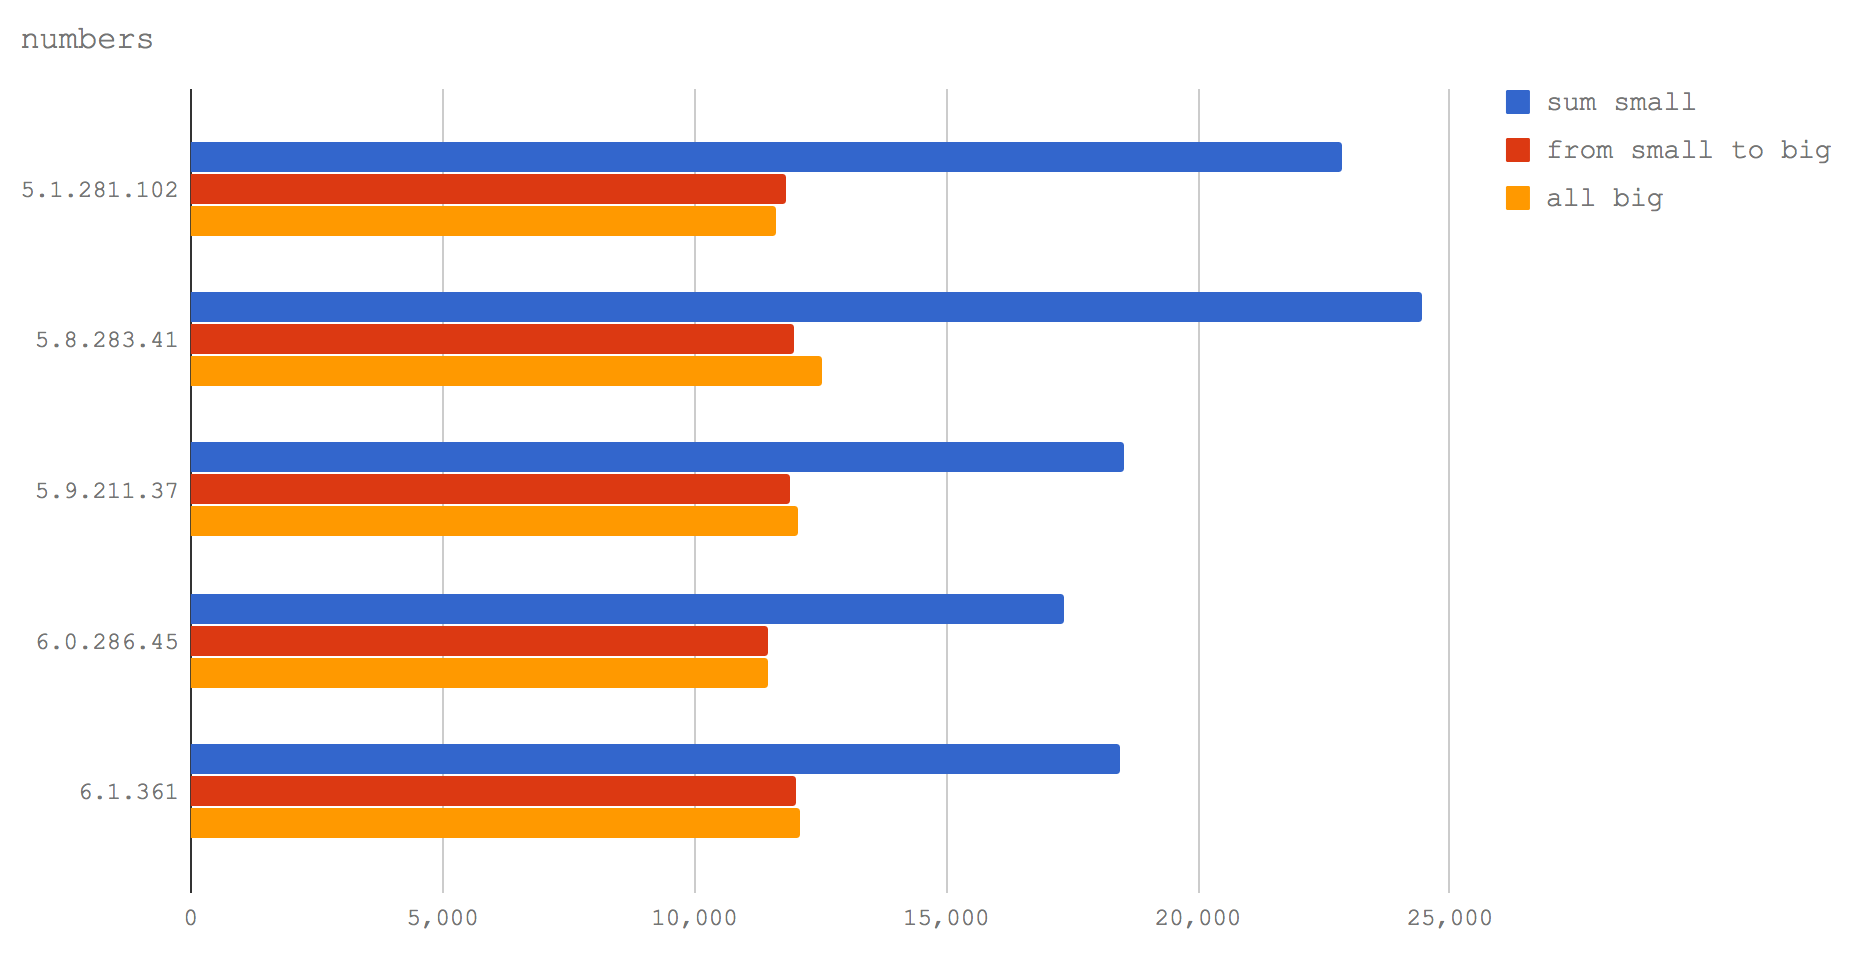
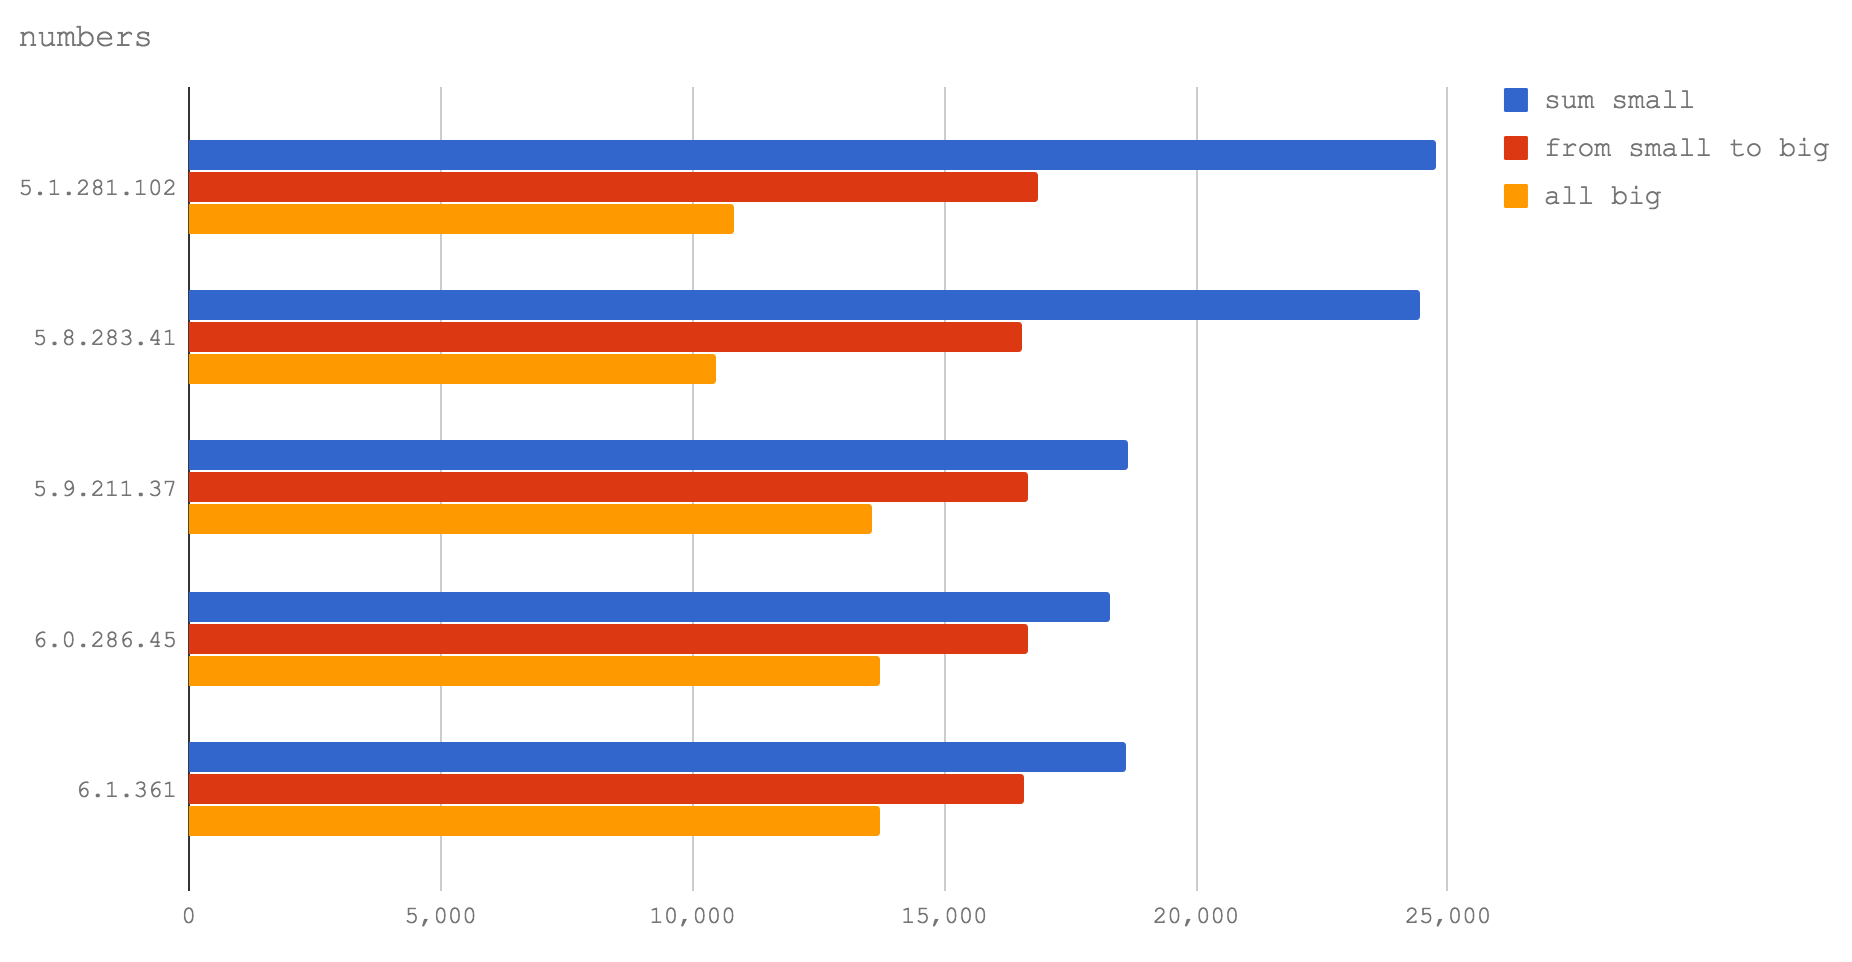
Massive edits after feedbacks

diff --git a/bench/property-removal.js b/bench/property-removal.js
@@ -3,7 +3,13 @@
 var benchmark = require('benchmark')
 var suite = new benchmark.Suite()
 
-function MyClass (x) {
+function MyClass (x, y) {
+  this.x = x
+  this.y = y
+}
+
+function MyClassLast (x, y) {
+  this.y = y
   this.x = x
 }
 
@@ -12,14 +18,21 @@ function MyClass (x) {
 // https://www.npmjs.com/package/to-fast-properties
 
 suite.add('setting to undefined', function undefProp () {
-  var obj = new MyClass(2)
+  var obj = new MyClass(2, 3)
   this.x = undefined
 
   JSON.stringify(obj)
 })
 
 suite.add('delete', function deleteProp () {
-  var obj = new MyClass(2)
+  var obj = new MyClass(2, 3)
+  delete obj.x
+
+  JSON.stringify(obj)
+})
+
+suite.add('delete last property', function deleteProp () {
+  var obj = new MyClassLast(2, 3)
   delete obj.x
 
   JSON.stringify(obj)

diff --git a/bench/object-creation.js b/bench/object-creation.js
@@ -30,7 +30,7 @@ suite.add('constructor', function allNums () {
 
 var literal = { x: 1 }
 suite.add('create', function allNums () {
-  var obj = Object.create(literal)
+  obj = Object.create(literal)
 })
 
 suite.on('cycle', () => runs = 0)

diff --git a/readme.md b/readme.md
@@ -16,7 +16,12 @@ This piece is about the evolution of V8 and JS engines performance.
 
 A central piece of the V8 engine that allows it to execute JavaScript at high speed is
 the JIT (Just In Time) compiler. This is a dynamic compiler that can optimize code during
-runtime. When V8 was first built the JIT Compiler was dubbed: Crankshaft.
+runtime. When V8 was first built the JIT Compiler was dubbed FullCodegen.
+Then, the V8 team implemented Crankshaft, which included many
+performance optimizations that FullCodegen did not implement.
+
+_Edit: FullCodegen was the first optimizing compiler of V8, thanks [Yang Guo](https://twitter.com/hashseed)
+for reporting._
 
 As an outside observer and user of JavaScript since the 90's, it has seemed that
 fast and slow paths in JavaScript (whatever the engine may be) were often counter-intuitive, the
@@ -51,7 +56,9 @@ the experimental node-v8 repo at https://github.com/nodejs/node-v8. In other wor
 eventually be in some future version of Node.
 
 Let's take a look at our microbenchmarks and on the other side we'll talk about what this
-means for the future.
+means for the future. All the microbenchmarks are executed using
+[benchmark.js](https://www.npmjs.com/package/benchmark), and the values
+plotted are operation per second, so higher is better in every diagram.
 
 ### The try/catch problem
 
@@ -107,14 +114,21 @@ In this microbenchmark we compare two cases:
 
 * serializing an object after an object's property has been set to `undefined`
 * serializing an object after `delete` has been used to remove an object's property
+* serializing an object after `delete` has been used to remove an object's property that
+  was the last property added.
 
 **Code:** <https://github.com/davidmarkclements/v8-perf/blob/master/bench/property-removal.js>
 
 ![](graphs/property-removal-bar.png)
 
-In V8 6.1 (not yet used in any Node releases), operations on an object with a deleted property gets *extremeley* fast,
-faster, even, than setting to `undefined`. This is excellent news because now we can do
-the right thing *and* it's the fastest option.
+In V8 6.0 and 6.1 (not yet used in any Node releases), deleting the last property added to an object hit a fast path in Turbofan,
+and thus it is faster, even, than setting to `undefined`. This is excellent news, as it shows that the V8 team is working
+towards improving the performance of `delete`. Even in latest V8 releases, the `delete` operator might
+still result in massive slowdown, so we still recommend to avoid using it.
+
+_Edit: we incorrectly reported that you could start using delete in
+future Node.js releases, this was corrected in a later edition of the
+post._
 
 ### Leaking and arrayifying `arguments`
 
@@ -281,26 +295,37 @@ since in many cases a number is within the 0-65535 range. If a JavaScript (whole
 exceeds 65535 the JIT Compiler has to dynamically alter the underlying type for the number
 to 64bit - this may also have potential knock on effects with regards to other optimizations.
 
+In the case of integers (that is, when we specify a number in JS without a decimal), V8 assumes that
+all numbers are 32bit - until they aren’t. This seems like a fair choice, since in many cases a number
+is within the 2147483648-2147483647 range. If a JavaScript (whole) number exceeds 2147483647
+the JIT Compiler has to dynamically alter the underlying type for the number to a double
+(or: a double-precision floating point number) - this may also have potential knock on effects with
+regards to other optimizations.
+
 This benchmark looks at three cases:
 
 * a function handling only numbers in the 32bit range (*sum small*)
-* a function handling a combination of 32bit and 64bit numbers (*from small to big*)
-* a function handling only numbers that exceed 32bit capacity (*all big*)
+* a function handling a combination of 32bit and double numbers (*from small to big*)
+* a function handling only double numbers (*all big*)
 
 **Code:** <https://github.com/davidmarkclements/v8-perf/blob/master/bench/numbers.js>
 
 ![](graphs/numbers-line.png)
 
 We can see from the graph that whether it's Node 6 (V8 5.1) or Node 8 (V8 5.8)
-or even some future version of Node this observation holds true. Numbers (integers)
-greater than 65535 will cause functions to run between a half and two thirds of the speed.
+or even some future version of Node this observation holds true. Operations using Numbers
+(integers) greater than 2147483647 will cause functions to run between a half and two thirds of the speed.
 So, if you have long numeric ID's - put them in strings.
 
-It's also quite noticeable that numbers in the 32bit range have a speed increase between
-Node 6 (V8 5.1) and Node 8.1 and 8.2 (V8 5.8) but slow significantly in Node 8.3+ (V8 5.9+).
-Since the large numbers don't change speed at all, it's likely that this genuinely is a slow-down
-in (32bit) number handling rather than being related to the speed of function calls or
-for loops (which are used in the benchmark code).
+It's also quite noticeable that operations with numbers in the 32bit range have a speed increase
+between Node 6 (V8 5.1) and Node 8.1 and 8.2 (V8 5.8) but slow significantly in Node 8.3+ (V8 5.9+).
+However, operations over double numbers become faster in Node 8.3+ (V8 5.9+),
+It's likely that this genuinely is a slow-down in (32bit) number handling rather than being related
+to the speed of function calls or for loops (which are used in the benchmark code).
+
+_Edit: updated thanks to [Jakob Kummerow](http://disq.us/p/1kvomfk) and
+[Yang Guo](https://twitter.com/hashseed) and the V8 team, for both accuracy and precision
+of the results._
 
 ### Iterating over objects
 
@@ -324,7 +349,7 @@ We also benchmarks an additional three cases for V8 5.8, 5.9, 6.0 and 6.1
 supplied to `reduce` is a fat arrow function (*Object.values functional with arrow*)
 * looping over the array returned from `Object.values` with a `for` loop (*Object.values with for loop*)
 
-We don't bench these cases in V8 5.1 (Node 6) because it doesn't support the native EcmaScript 2015 `Object.values` method.
+We don't bench these cases in V8 5.1 (Node 6) because it doesn't support the native EcmaScript 2017 `Object.values` method.
 
 **Code:** <https://github.com/davidmarkclements/v8-perf/blob/master/bench/object-iteration.js>
 
@@ -381,6 +406,9 @@ for future friendly performant code is to always prefer object literals. This su
 since we recommend returning object literals from functions (rather than using classes
 or constructors) as a general best coding practice.
 
+_Edit: Jakob Kummerow noted in [http://disq.us/p/1kvomfk]() that Turbofan
+can optimize away the object allocation in this specific microbenchmark.
+We are working on a updated version to take this in consideration._
 
 ### Polymorphic vs monomorphic functions
 
@@ -412,8 +440,12 @@ which compounds the point further. However it's worth noting that this based on 
 uses a sort of nightly-build V8 version - it may not end up being a concrete characteristic in V8 6.1.
 
 If we're writing code that needs to be optimal, that is a function that will be called many times over,
-then we should avoid using polymorphism. On the other hand, if it's only called once or twice, say an instantiating/setup function,
-then a polymorphic API is acceptable.
+then we should avoid using polymorphism. On the other hand, if it's only called once or twice, say an
+instantiating/setup function, then a polymorphic API is acceptable.
+
+_Edit: We have been informed by the V8 team that the results for this specific benchmark are not
+reliably reproducible using their internal executable, `d8`.
+The results and the subsequent analysis should therefore be taken as reference only, not at face value._
 
 ### The `debugger` keyword
 
@@ -441,8 +473,8 @@ In addition to our microbenchmarks we can take a look at the holistic effects of
 V8 versions by using benchmarks of most popular loggers for Node.js that Matteo and I
 put together while we were creating [Pino](http://getpino.io).
 
-The following bar chart represent the performance of the most popular
-loggers in Node.js 5.9 (Crankshaft):
+The following bar chart represent the performance (lower is better)
+of the most popular loggers in Node.js 6.11 (Crankshaft):
 
 ![](graphs/loggers-updated.png)
 
@@ -479,3 +511,7 @@ a performance reward is coming.
 
 The raw data for this article can be found at: https://docs.google.com/spreadsheets/d/1mDt4jDpN_Am7uckBbnxltjROI9hSu6crf9tOa2YnSog/edit?usp=sharing
 
+Some of the microbenchmarks were taken on a Macbook Pro 2016, 3.3 GHz Intel Core i7 with 16 GB 2133 MHz LPDDR3,
+others were taken on a MacBook Pro 2014, 3 GHz Intel Core i7 with 16 GB 1600 MHz DDR3. All the measurements
+between the different Node.js versions were taken on the same machine.
+We took great care in assuring that no other programs were interfering.
